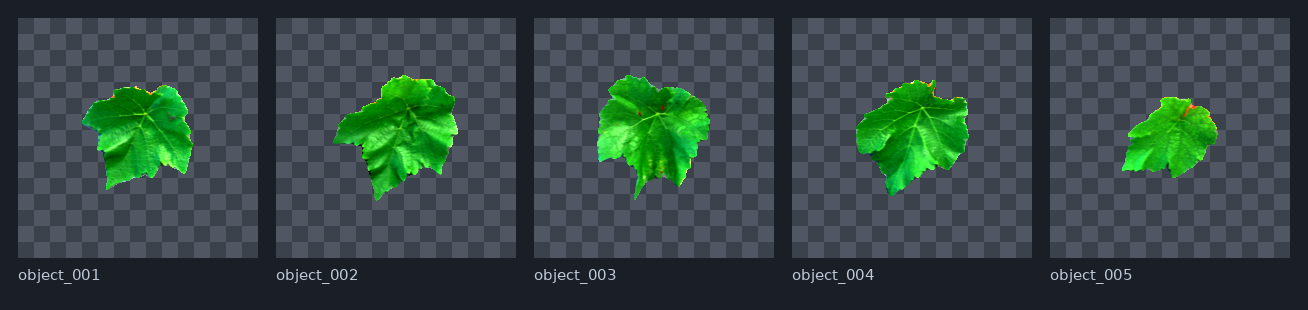
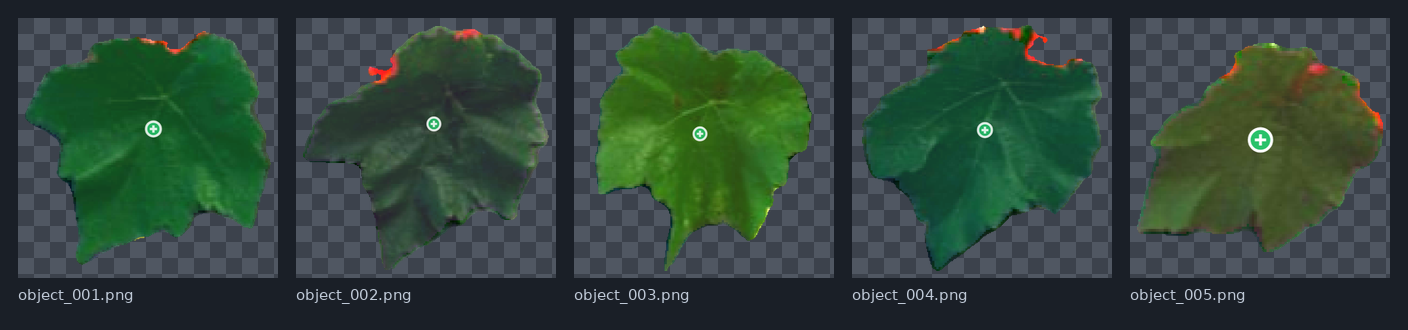
chore/docs: use the app screenshot and its cut-out leaves in the readme
Adds the original screenshot and shows five leaves segmented from it.

diff --git a/README.md b/README.md
@@ -2,7 +2,7 @@
 
 **Click on an object, get a clean cut-out.** Segmentation Tool outlines objects in your images with a few clicks, using Meta's [SAM 2](https://github.com/facebookresearch/sam2) model. It works with ordinary photos *and* with multispectral and hyperspectral images, and it runs on your own computer — your images never leave it.
 
-![Outlining five leaves in a 204-band hyperspectral capture](docs/images/06-workspace.jpg)
+![Outlining five leaves in a 204-band hyperspectral capture](docs/images/Segmentation%20App.png)
 
 *Five leaves outlined with one click each in a hyperspectral capture (shown as a colour picture).*
 
@@ -67,7 +67,7 @@ results/
 
 ![Exported cut-outs](docs/images/13-results.png)
 
-*The five leaves above as saved: each is a full 204-band ENVI file, plus the colour preview shown here (transparent background).*
+*The five leaves above, cut out by the app as PNG files with a transparent background. (The small ⊕ markers are the click points drawn in the screenshot.)*
 
 For spectral images each object is saved in the same format as the input (for example `object_001.hdr` + `object_001.img` for ENVI) plus `object_001_preview.png`. Everything about the output — format, cropping, masks, previews, CSV or COCO JSON — can be changed in **Settings → Export**.
 

diff --git a/docs/MANUAL.md b/docs/MANUAL.md
@@ -77,7 +77,7 @@ If you ever delete the model file or change to a model you have not downloaded, 
 
 ## 3. A tour of the screen
 
-![The workspace: a hyperspectral capture with five outlined leaves](images/06-workspace.jpg)
+![The workspace: a hyperspectral capture with five outlined leaves](images/Segmentation%20App.png)
 
 | Area | What it does |
 |---|---|
